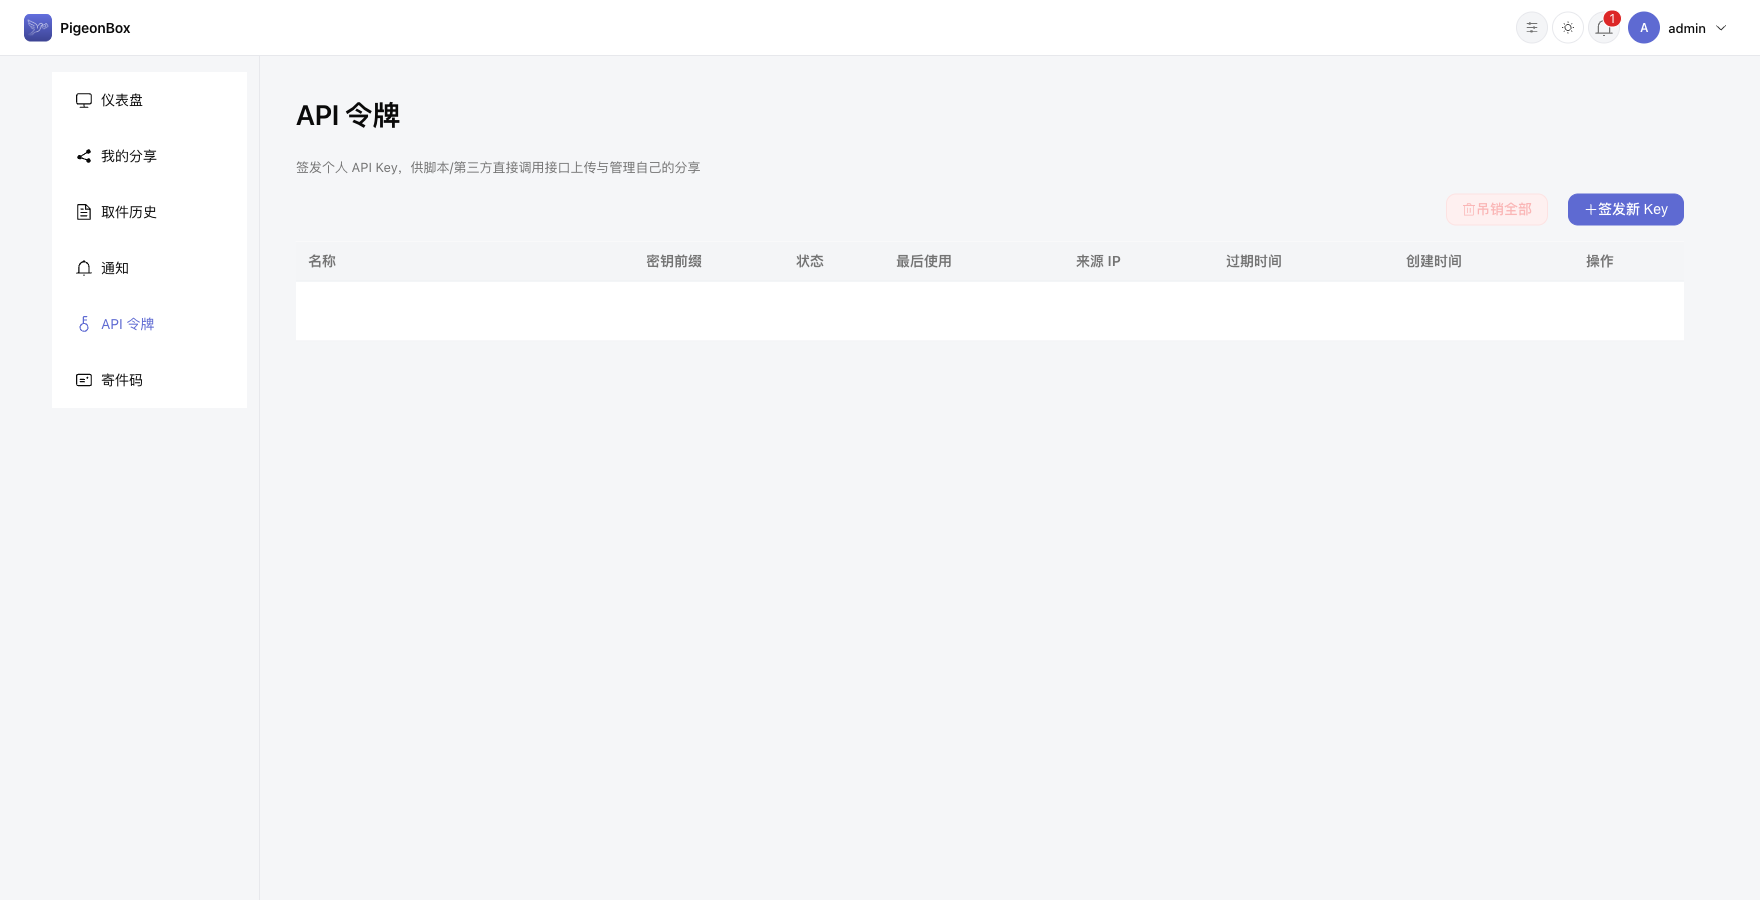
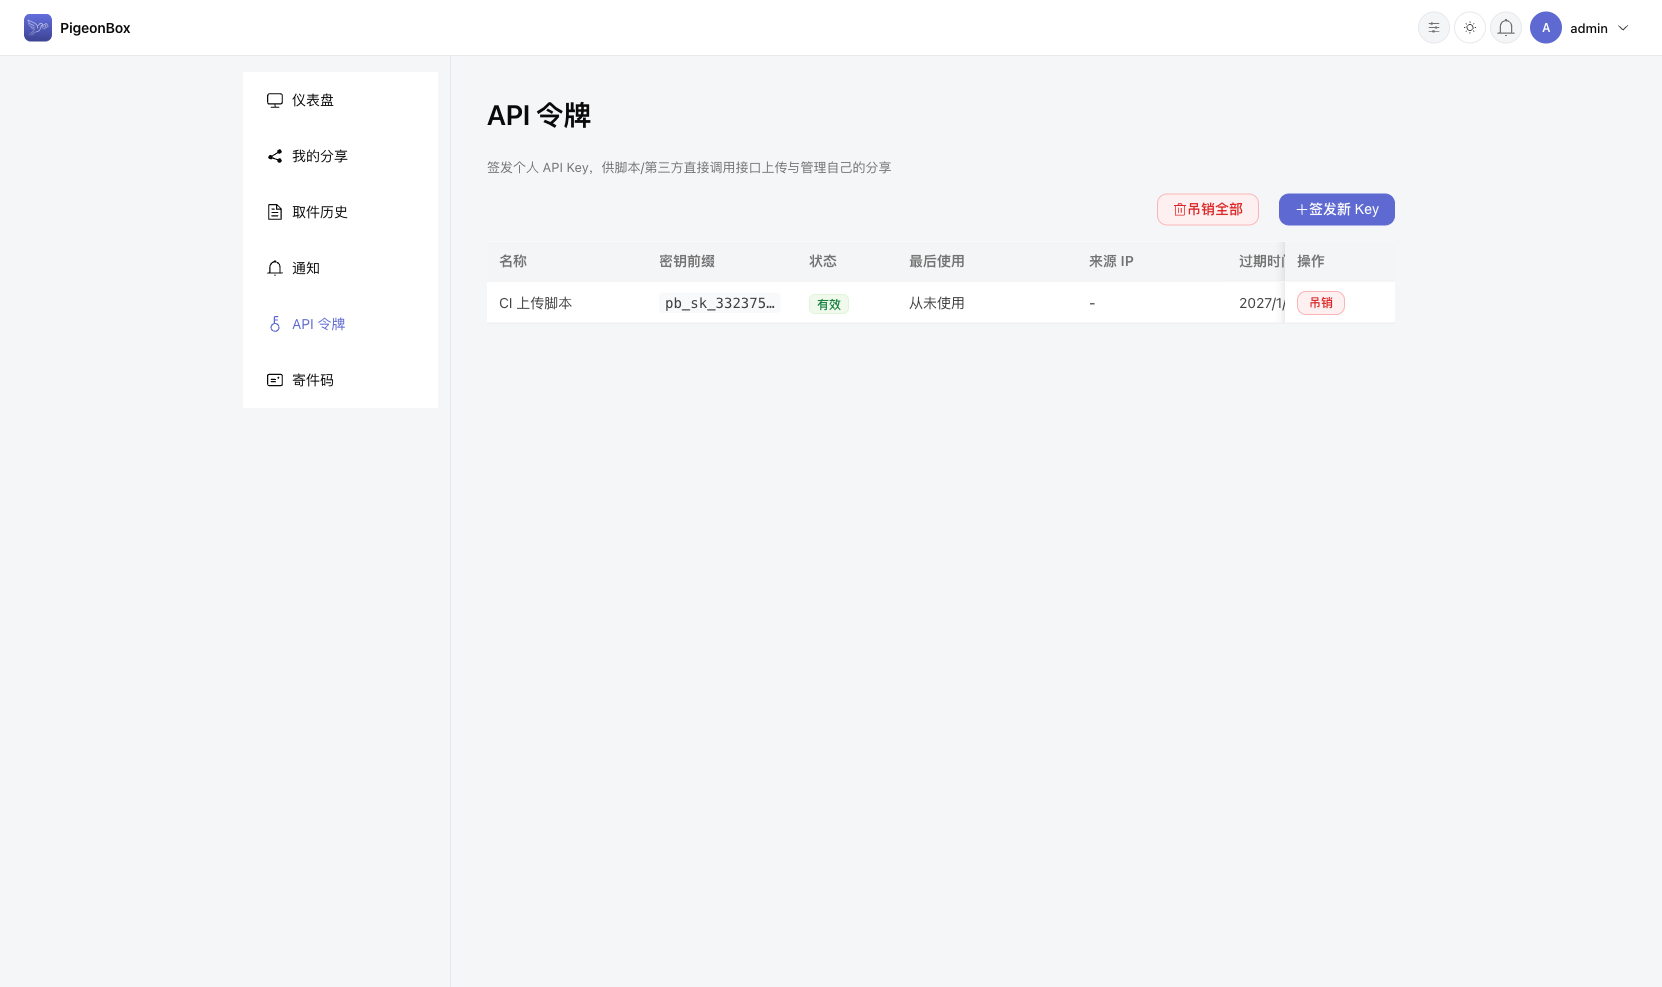
docs(usage): 重截 API 令牌页截图——空表换含 pb_sk_ 前缀真实行(本地 0.15.x+ 实例签发演示 token 后截取),图注同步为「列表仅展示前缀,明文仅签发时显示一次」

diff --git a/docs-site/guide/usage.md b/docs-site/guide/usage.md
@@ -126,7 +126,7 @@ title: 使用说明
 *通知中心：公告与到件提醒*
 
 ![API 令牌](/screenshots/user-tokens.png)
-*API 令牌：签发 pb_sk_ 密钥供程序化调用（图中密钥已脱敏/吊销）*
+*API 令牌：签发 `pb_sk_` 密钥供程序化调用；列表仅展示密钥前缀与状态，明文只在签发时显示一次*
 
 ## 管理后台
 
